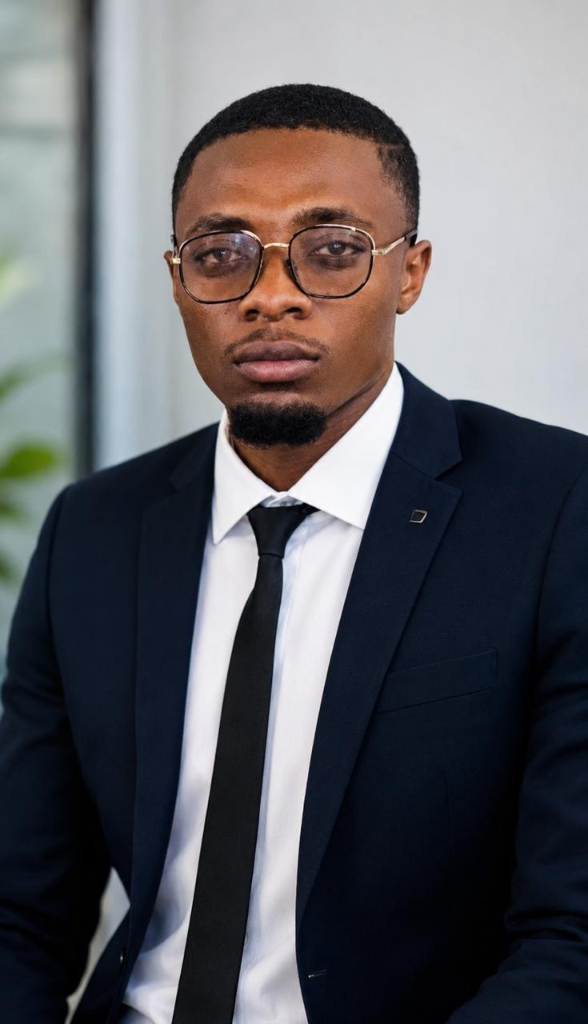
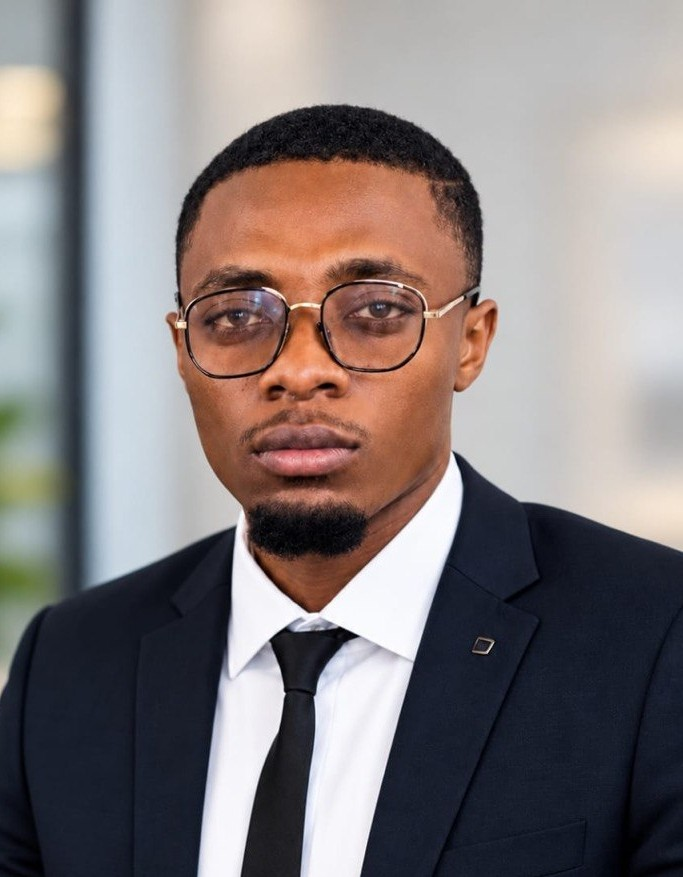
feat: add team member profile images to public assets

diff --git a/src/data/site.ts b/src/data/site.ts
@@ -252,9 +252,9 @@ export const ASSOCIADOS: Associado[] = [
     foto: "/equipa/delton-fevereiro.jpg",
     carteira: "Carteira profissional n.º 3239",
   },
-  { nome: "Áurio Agnaldo Gilberto Cochelane", carteira: "Carteira profissional n.º 3215" },
-  { nome: "João Bilai Tambo Júnior", carteira: "Carteira profissional n.º 3619" },
-  { nome: "Alfredo Chicuele", foto: "/equipa/alfredo-chicuele.jpg", carteira: "Recém-inscrito, ainda sem número de carteira atribuído" },
+  { nome: "João Bilai Tambo Júnior", cargo: "Advogado Associado", carteira: "Carteira profissional n.º 3619" },
+  { nome: "Alfredo Chicuele", cargo: "Advogado Associado", foto: "/equipa/alfredo-chicuele.jpg", carteira: "Recém-inscrito, ainda sem número de carteira atribuído" },
+  { nome: "Amós Magalhães", cargo: "Contabilista", foto: "/equipa/amos-magalhaes.jpg", carteira: "" },
 ];
 
 export type Local = {
